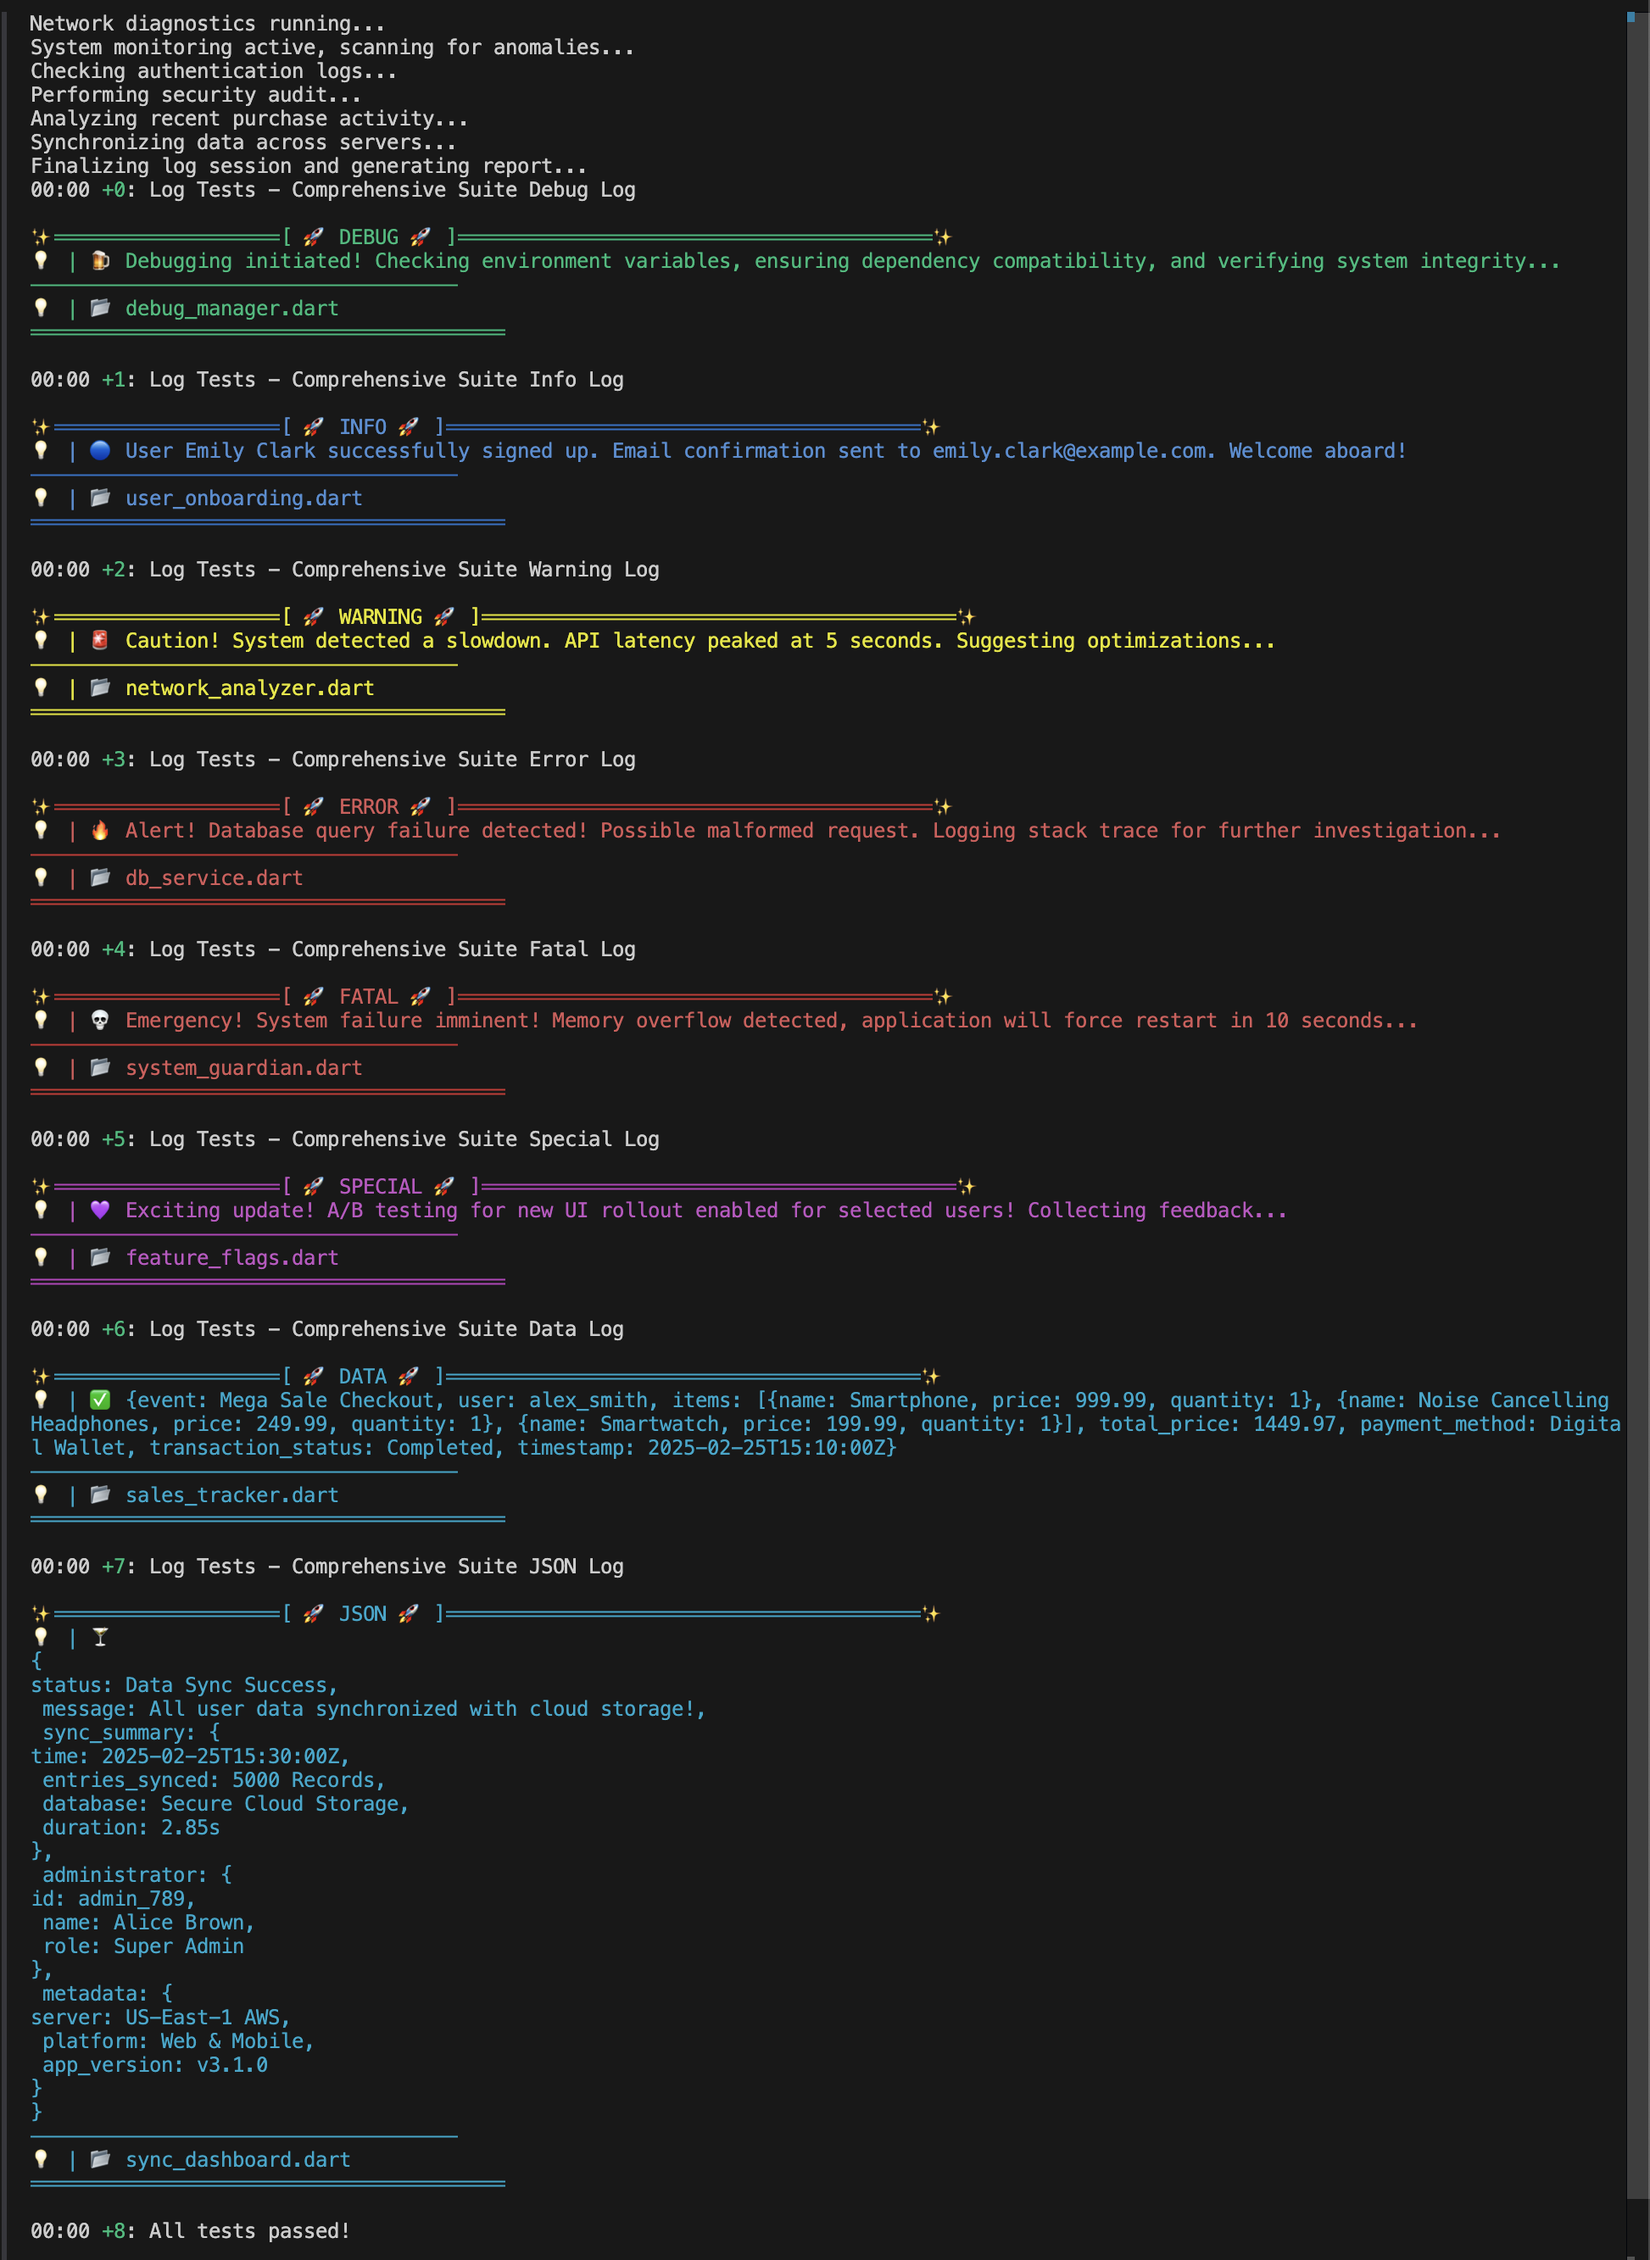
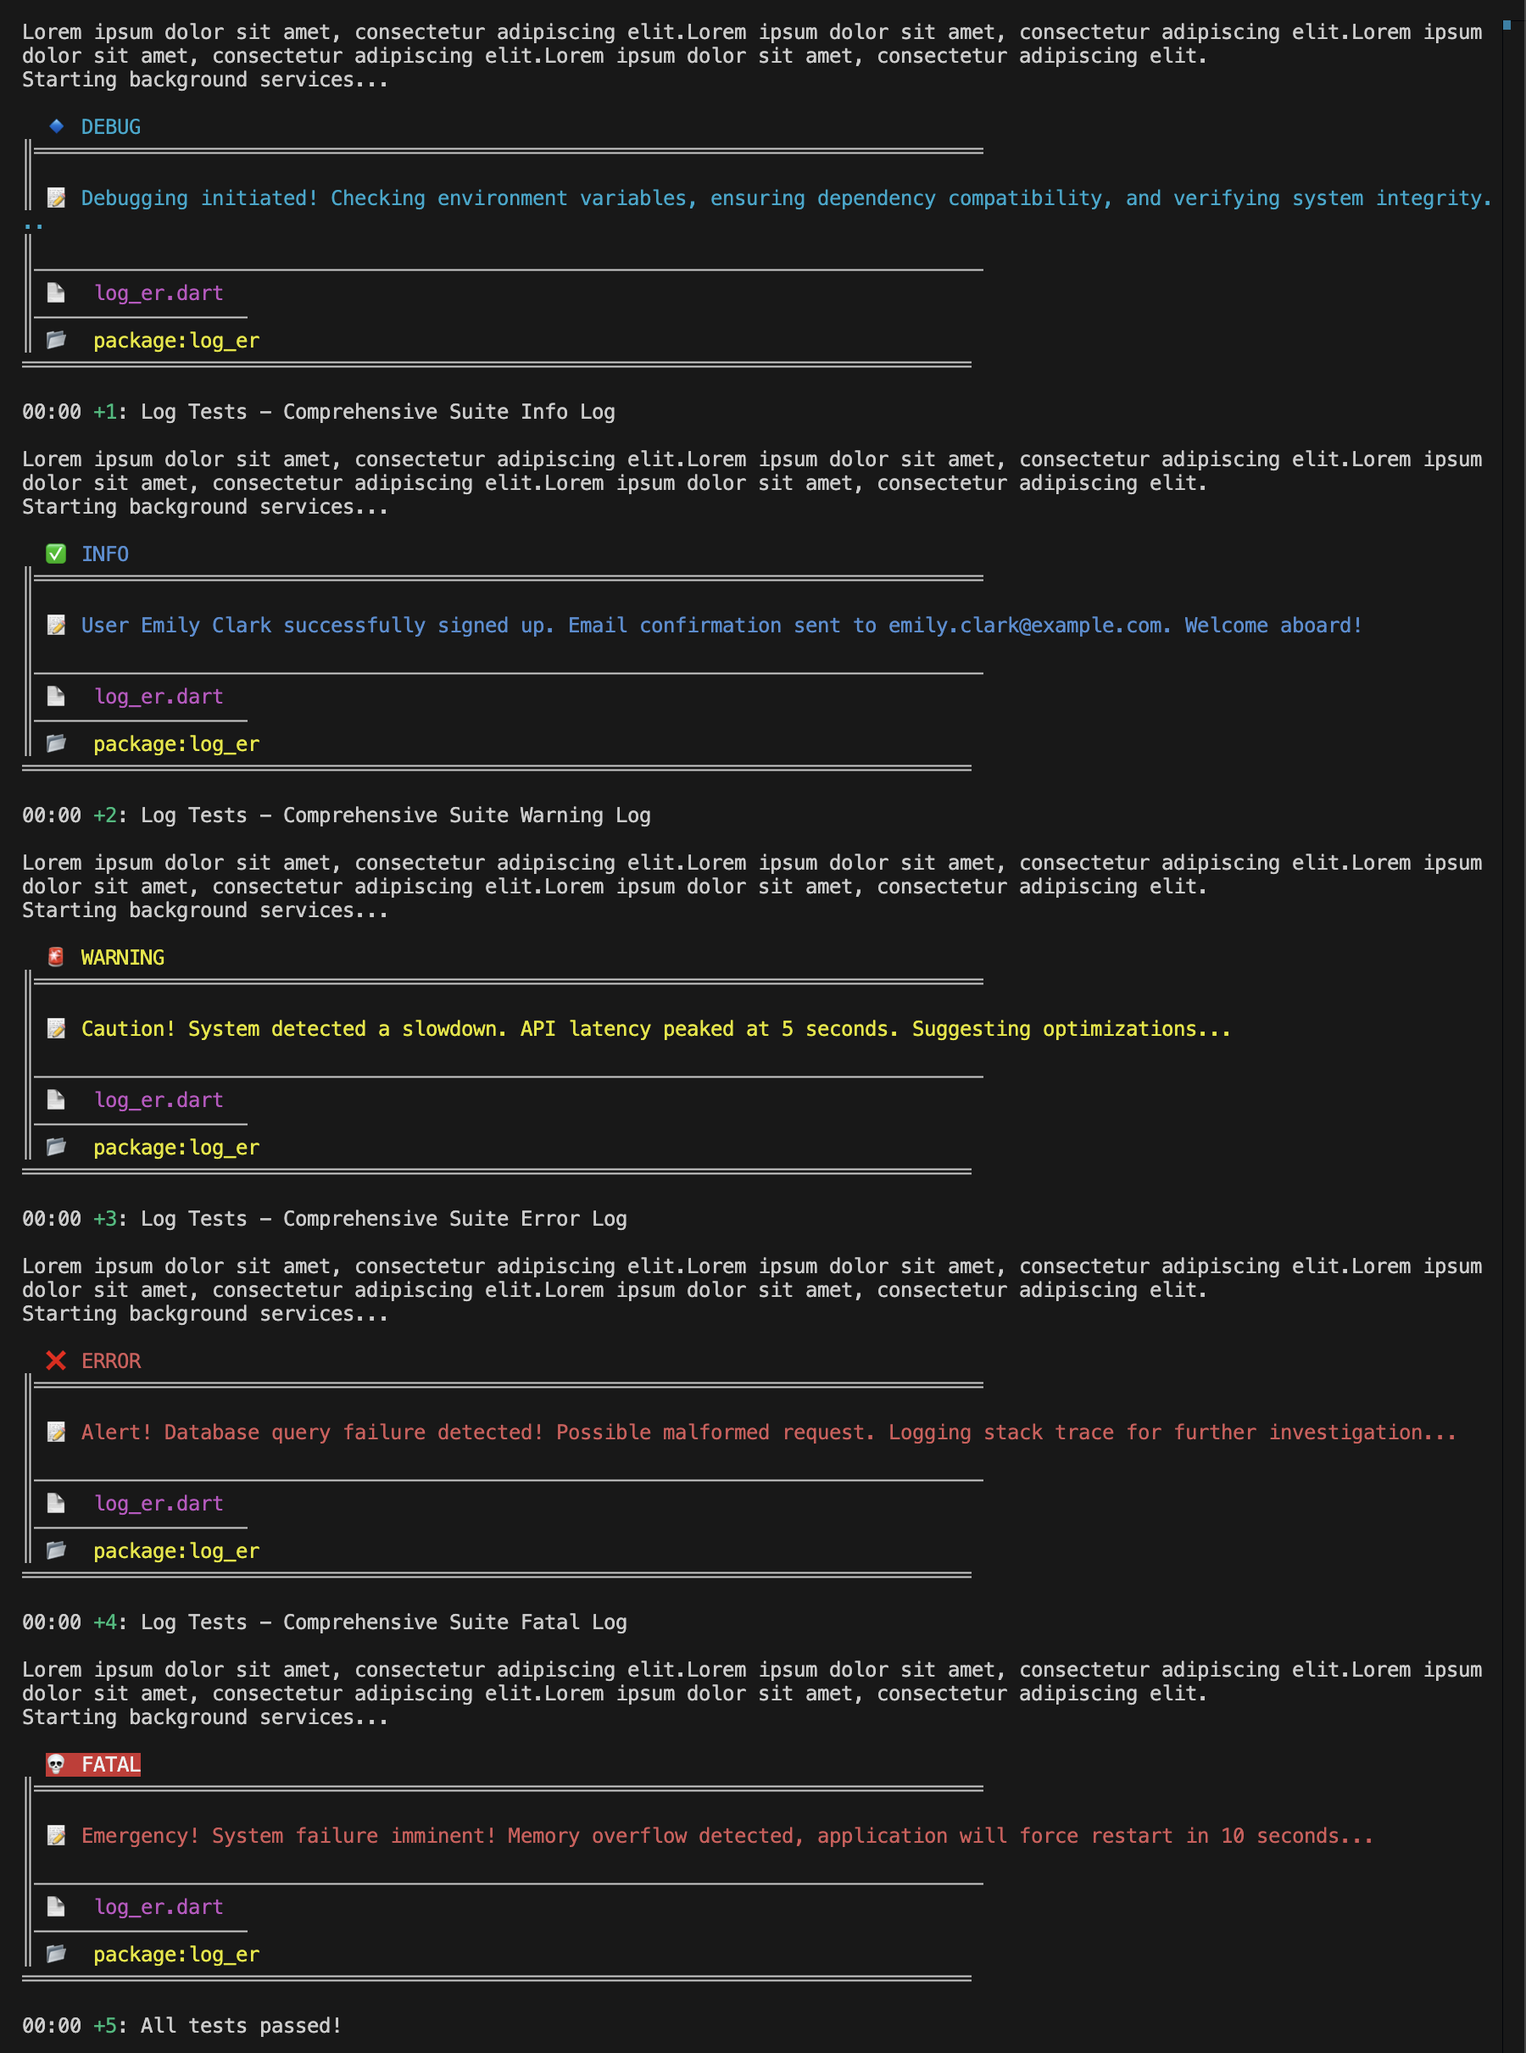
version update

diff --git a/test/log_er_test.dart b/test/log_er_test.dart
@@ -20,36 +20,54 @@ void main() {
   Log.magenta('Bu bir mor mesajdır.');
   group('Log Tests - Comprehensive Suite', () {
     test('Debug Log', () {
+      print("Lorem ipsum dolor sit amet, consectetur adipiscing elit." * 4);
+
+      print("Starting background services...");
       Log.debug(
-          "Debugging initiated! Checking environment variables, ensuring dependency compatibility, and verifying system integrity..." *
-              4);
+          "Debugging initiated! Checking environment variables, ensuring dependency compatibility, and verifying system integrity...");
     });
+
+    print("Lorem ipsum dolor sit amet, consectetur adipiscing elit." * 4);
 
     print("Starting background services...");
 
     test('Info Log', () {
+      print("Lorem ipsum dolor sit amet, consectetur adipiscing elit." * 4);
+
+      print("Starting background services...");
       Log.info(
-          "User Emily Clark successfully signed up. Email confirmation sent to emily.clark@example.com. Welcome aboard!" *
-              2);
+          "User Emily Clark successfully signed up. Email confirmation sent to emily.clark@example.com. Welcome aboard!");
     });
 
     print("Network diagnostics running...");
+    print("Lorem ipsum dolor sit amet, consectetur adipiscing elit." * 4);
 
     test('Warning Log', () {
+      print("Lorem ipsum dolor sit amet, consectetur adipiscing elit." * 4);
+
+      print("Starting background services...");
       Log.warning(
           "Caution! System detected a slowdown. API latency peaked at 5 seconds. Suggesting optimizations...");
     });
 
     print("System monitoring active, scanning for anomalies...");
+    print("Lorem ipsum dolor sit amet, consectetur adipiscing elit." * 4);
 
     test('Error Log', () {
+      print("Lorem ipsum dolor sit amet, consectetur adipiscing elit." * 4);
+
+      print("Starting background services...");
       Log.error(
           "Alert! Database query failure detected! Possible malformed request. Logging stack trace for further investigation...");
     });
 
     print("Checking authentication logs...");
+    print("Lorem ipsum dolor sit amet, consectetur adipiscing elit." * 4);
 
     test('Fatal Log', () {
+      print("Lorem ipsum dolor sit amet, consectetur adipiscing elit." * 4);
+
+      print("Starting background services...");
       Log.fatal(
           "Emergency! System failure imminent! Memory overflow detected, application will force restart in 10 seconds...");
     });

diff --git a/README.md b/README.md
@@ -11,20 +11,17 @@
 🔹 **log_er** is a structured, colorful, and emoji-enhanced logging package for **Dart & Flutter**.  
 🔹 Supports **custom log levels, JSON logging, stack traces, and more!**  
 
----
-
-## 🎯 **Features**
+## 🎯 Features
 ✅ **Color-coded logs for better readability** 🎨  
 ✅ **Supports multiple log levels** 🏷  
+✅ **Custom color log functions** 🌈  
 ✅ **Easy-to-use API** 🚀  
 ✅ **Emoji-enhanced log messages** 😃  
 ✅ **Prettified JSON logging** 📝  
 ✅ **File and API logging support (soon!)** 🔥  
 
----
-
-## 📦 **Installation**
-Add the following to your **`pubspec.yaml`**:
+## 📦 Installation
+Add the following to your **pubspec.yaml**:
 ```yaml
 dependencies:
   log_er: ^2.0.4
@@ -34,72 +31,50 @@ Then run:
 flutter pub get
 ```
 
----
-
-## 🚀 **Quick Start**
-### **1⃣ Import the Package**
+## 🚀 Quick Start
+### Import the Package
 ```dart
 import 'package:log_er/log_er.dart';
 ```
 
-### **2⃣ Log Messages**
+### Log Messages
 ```dart
-Log.debug("Initializing app...", fileName: "main.dart");
-Log.info("User logged in successfully.", fileName: "auth_service.dart");
-Log.warning("Low memory detected!", fileName: "performance_monitor.dart");
-Log.error("Failed to fetch API data!", fileName: "network_service.dart");
-Log.fatal("System crashed!", fileName: "core_system.dart");
+Log.debug("Initializing app...");
+Log.info("User logged in successfully.");
+Log.warning("Low memory detected!");
+Log.error("Failed to fetch API data!");
+Log.fatal("System crashed!");
+Log.json('{ "status": "success", "user": "John Doe" }');
 ```
 
----
-
-## 🏷 **Log Levels**
+## 🏷 Log Levels
 | Level       | Emoji | Usage Example |
 |------------|------|--------------------|
-| **DEBUG**   | 🍺 | `Log.debug("Debugging...", fileName: "main.dart");` |
-| **INFO**    | 🔵 | `Log.info("User logged in.", fileName: "auth.dart");` |
-| **WARNING** | 🚨 | `Log.warning("Slow network detected.", fileName: "network.dart");` |
-| **ERROR**   | 🔥 | `Log.error("Database connection failed!", fileName: "db.dart");` |
-| **FATAL**   | 💀 | `Log.fatal("Critical failure!", fileName: "system.dart");` |
-| **SPECIAL** | 💜 | `Log.special("Feature flag enabled.", fileName: "config.dart");` |
-| **DATA**    | ✅ | `Log.data({"user": "John"}, fileName: "api.dart");` |
+| **DEBUG**   | 🔹 | `Log.debug("Debugging...");` |
+| **INFO**    | ✅ | `Log.info("User logged in.");` |
+| **WARNING** | 🚨 | `Log.warning("Slow network detected.");` |
+| **ERROR**   | ❌ | `Log.error("Database connection failed!");` |
+| **FATAL**   | 💀 | `Log.fatal("Critical failure!");` |
+| **JSON**    | 🍺 | `Log.json("{ "status": "ok" }");` |
 
----
-
-![log_er Banner](https://raw.githubusercontent.com/Developeryilmaz/log_er/main/assets/banner.png)  
-
----
-
-## 📊 **Logging Structured Data**
+## 🌈 Custom Color Log Methods
 ```dart
-Log.json({
-  "status": "success",
-  "user": {"id": 1, "name": "John Doe"}
-}, fileName: "api_service.dart");
+Log.red("This is a red message.");
+Log.green("This is a green message.");
+Log.yellow("This is a yellow message.");
+Log.blue("This is a blue message.");
+Log.cyan("This is a cyan message.");
+Log.magenta("This is a magenta message.");
 ```
 
----
-
-## ⚙ **Configuration**
-Customize logging behavior by passing a **custom logger**:
-```dart
-Log(logger: FileLogger("logs.txt")).info("App started", fileName: "main.dart");
-```
-
----
-
-## 🛠 **Upcoming Features**
+## 🛠 Upcoming Features
 - **File-based logging**
 - **API remote logging**
 - **Log filtering & searching**
 - **Performance optimizations**
 
----
-
-## 📜 **License**
+## 📜 License
 **log_er** is licensed under the [MIT License](LICENSE).
 
----
-
 📌 **Made with ❤ by [Developeryilmaz](https://github.com/Developeryilmaz).**  
-🚀 **Star this repo on GitHub if you found it useful!** 🌟
+🚀 **Star this repo on GitHub if you found it useful!** 🌟  

diff --git a/CHANGELOG.md b/CHANGELOG.md
@@ -4,6 +4,18 @@ All notable changes to this project will be documented in this file.
 
 ---
 
+## [2.0.4] - 2025-03-06
+### 🔥 Added
+- 🆕 Introduced **emoji-enhanced logging** for better readability.
+- 🆕 Added **5 real-world examples** per method in `log_printer.dart`.
+- 🆕 Implemented **`special()` log level** for custom events.
+
+### 🛠 Fixed
+- 🐛 Resolved missing `bin/log_er.dart` issue for CLI execution.
+- 🐛 Fixed `.gitignore` to prevent `.DS_Store` and unnecessary files in publishing.
+
+---
+
 ## [2.0.3] - 2025-02-27
 ### 🔥 Added
 - 🆕 Introduced **emoji-enhanced logging** for better readability.
